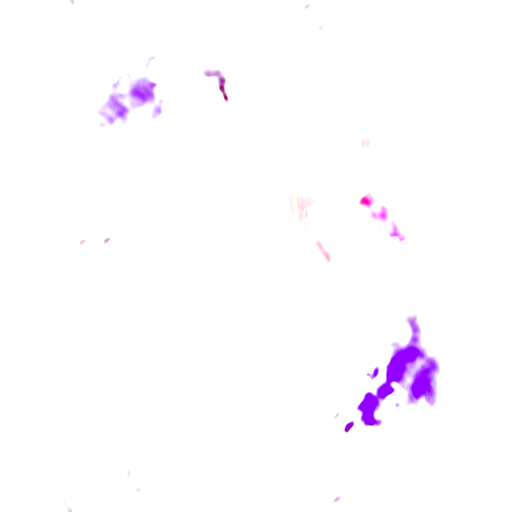
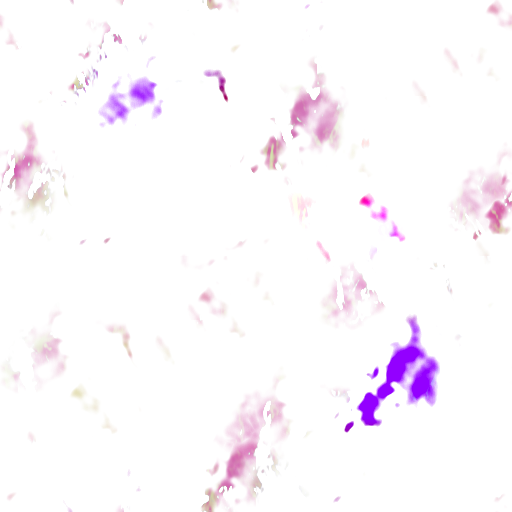
feat(clouds): extend Takram volumetric clouds, ECEF tangent anchor, NASA/Dereth weather maps, and cloud shadows across Ocean transit and Dericost

diff --git a/external/holtburger/apps/holtburger-web/scene3d/cloud_volume.js b/external/holtburger/apps/holtburger-web/scene3d/cloud_volume.js
@@ -58,6 +58,7 @@ import {
   DISPLAY_EXPOSURE_DEFAULT,
 } from './cloud_night.js';
 import { rustFlag } from './rust/scene_core.js';
+import { ecefAnchorForWorld } from './altitude_policy.js';
 // Lane F2 (2026-10-26) — `?hotTerrainShared` (DEFAULT OFF): the terrain cloud
 // shadow uniforms as one shared `{value}` each (scene3d/terrain_shared_uniforms.js).
 import {
@@ -456,8 +457,11 @@ export class CloudVolume {
     // see [[project_holtburger_clouds_f_done]]; we patch it in tick().
     this.effect.correctAltitude = false;
     this._bottomRadius = bottomRadius;
+    this._anchorY = 0;
+    this._anchorZ = 0;
+    this._camScratch = new THREE.Vector3();
     this.material = this.effect.cloudsPass.currentMaterial;
-    _hbInstallTrueCameraHeight(this.effect, bottomRadius);
+    _hbInstallTrueCameraHeight(this.effect, bottomRadius, this);
 
     // Temporal-resolve variance clipping, LOOSENED (2026-08-01, live 1070
     // A/B). takram's varianceGamma=2 clips the history buffer so hard
@@ -666,6 +670,40 @@ export class CloudVolume {
   }
 
   /**
+   * Synchronize the ECEF tangent-sphere origin with the active camera so
+   * extended coordinates (Ocean transit corridor AC Y=48.96..68.93 km and
+   * Dericost AC Y=68.93..117.89 km) do not drop below the spherical horizon
+   * or tilt rayIntersectsGround. On Dereth (AC Y <= 36 km), anchorY=0 and
+   * anchorZ=0 so the transform is 100% unchanged.
+   */
+  syncWorldECEF(camera) {
+    const cam = camera || this.effect?.camera;
+    if (!cam || !this.effect) return;
+    const p = typeof cam.getWorldPosition === 'function' ? cam.getWorldPosition(this._camScratch) : cam.position;
+    if (!p) return;
+    const { anchorY, anchorZ } = ecefAnchorForWorld(p.x, p.z);
+    if (anchorY === this._anchorY && anchorZ === this._anchorZ) return;
+    const dY = anchorY - this._anchorY;
+    const dZ = anchorZ - this._anchorZ;
+    this._anchorY = anchorY;
+    this._anchorZ = anchorZ;
+    this.effect.worldToECEFMatrix.makeTranslation(0, this._bottomRadius - anchorY, -anchorZ);
+    this.effect.ecefToWorldMatrix.copy(this.effect.worldToECEFMatrix).invert();
+    if (this.effect.shapeOffset && this.effect.shapeRepeat) {
+      this.effect.shapeOffset.y += dY * this.effect.shapeRepeat.y;
+      this.effect.shapeOffset.z += dZ * this.effect.shapeRepeat.z;
+    }
+    if (this.effect.shapeDetailOffset && this.effect.shapeDetailRepeat) {
+      this.effect.shapeDetailOffset.y += dY * this.effect.shapeDetailRepeat.y;
+      this.effect.shapeDetailOffset.z += dZ * this.effect.shapeDetailRepeat.z;
+    }
+    if (!this._driftWobble && this.effect.localWeatherOffset) {
+      this.effect.localWeatherOffset.x += (-dZ / 90000) * 0.35;
+      this.effect.localWeatherOffset.y += (-dZ / 90000) * 0.65;
+    }
+  }
+
+  /**
    * Apply an AC SkyState snapshot to the cloud material's uniforms.
    * No-op if `state` is null/undefined (matches sky_lighting.js's
    * tick semantics — when no session is up, leave defaults).
@@ -677,6 +715,7 @@ export class CloudVolume {
    */
   tick(state, _objStates) {
     if (!state) return;
+    this.syncWorldECEF(this.effect?.camera);
     const u = this.material.uniforms;
 
     // Sky-K.6 follow-on: clouds now sample the real Bruneton tables
@@ -1194,7 +1233,7 @@ export const _internals = {
 // and today's look exactly. The negative height also kept takram's haze term at zero (approximateHaze returns 0
 // for cameraHeight · modulation < 0); hazeDensityScale is held at 0 while the true height is in use, so the haze
 // stays what it has always been.
-function _hbInstallTrueCameraHeight(effect, bottomRadius) {
+function _hbInstallTrueCameraHeight(effect, bottomRadius, volume = null) {
   try {
     const v = (new URLSearchParams(globalThis.location?.search || "").get("cloudTrueHeight") || "").trim().toLowerCase();
     if (v === "off" || v === "0" || v === "false" || v === "no") return;
@@ -1208,13 +1247,17 @@ function _hbInstallTrueCameraHeight(effect, bottomRadius) {
   if (typeof window !== "undefined") window.__cloudTrueHeight = () => ({ ...stats });
   if (typeof window !== "undefined" && !window.__cloudHighBand) window.__cloudHighBand = () => ({ enabled: cloudHighBandEnabled(), ..._highBandStats });
   pass.copyCameraSettings = function hbTrueCameraHeight(camera) {
+    if (volume && typeof volume.syncWorldECEF === "function") volume.syncWorldECEF(camera);
     orig.call(this, camera);
     stats.frames += 1;
     try {
       const u = this.currentMaterial?.uniforms;
       if (!u || !u.cameraHeight || !camera || typeof camera.getWorldPosition !== "function") return;
       const p = camera.getWorldPosition(tmp);
-      const radial = Math.max(0, p.y + (p.x * p.x + p.z * p.z) / (2 * bottomRadius));
+      const { anchorY, anchorZ } = ecefAnchorForWorld(p.x, p.z);
+      const yEcef = p.y - anchorY;
+      const zEcef = p.z - anchorZ;
+      const radial = Math.max(0, yEcef + (p.x * p.x + zEcef * zEcef) / (2 * bottomRadius));
       const minH = Number.isFinite(u.minHeight?.value) ? u.minHeight.value : 750;
       if (radial >= minH - 150) {
         u.cameraHeight.value = radial;

diff --git a/external/holtburger/apps/holtburger-web/scene3d/world_terrain.js b/external/holtburger/apps/holtburger-web/scene3d/world_terrain.js
@@ -266,6 +266,10 @@ uniform float uAcAmbLevel;
 uniform float uSlopeShadingEnabled;
 uniform float uWaterGlint;          // 0..1
 uniform float uCanopy;              // 0..1 strength of the forest tint
+uniform float uCloudShadowEnabled;
+uniform sampler2DArray uCloudShadowMap;
+uniform mat4 uCloudShadowMatrix0;
+uniform float uCloudShadowStrength;
 #ifdef HB_WORLD_PRESENCE
 uniform highp sampler2D hbLbPresence;  // lb_presence.js: G = near ring drawn
 uniform vec2 hbLbPresenceOrigin;
@@ -374,7 +378,22 @@ void main() {
   albedo = terrainPaintLight(albedo, n, sunDir, vViewDepth, uPaintLight);
   float ndotl = 1.0;
   if (uSlopeShadingEnabled > 0.5 && !acGouraud) ndotl = terrainSunNdotl(n, sunDir);
-  vec3 lit = terrainApplyLight(albedo, ndotl, 1.0, 1.0);
+  float cloudShadow = 1.0;
+  if (uCloudShadowEnabled > 0.5) {
+    vec3 worldPos3 = vec3(vWorldXy.x, vWorldZ, -vWorldXy.y);
+    vec4 csClip = uCloudShadowMatrix0 * vec4(worldPos3, 1.0);
+    vec2 csUv = (csClip.xy / csClip.w) * 0.5 + 0.5;
+    vec2 csEdge = smoothstep(vec2(0.0), vec2(0.08), csUv)
+                * smoothstep(vec2(0.0), vec2(0.08), vec2(1.0) - csUv);
+    float csInBounds = csEdge.x * csEdge.y;
+    if (csInBounds > 0.001) {
+      vec4 bsm = texture(uCloudShadowMap, vec3(csUv, 0.0));
+      float opticalDepth = bsm.b + bsm.a;
+      float shadowTrans = max(exp(-opticalDepth * uCloudShadowStrength), 0.25);
+      cloudShadow = mix(1.0, shadowTrans, csInBounds);
+    }
+  }
+  vec3 lit = terrainApplyLight(albedo, ndotl, cloudShadow, 1.0);
   // water seen from the air: Fresnel (little reflection looking straight down, more toward the horizon), a sky
   // sheen from the fog colour (the horizon radiance) and a tight sun glint that is strongest at grazing angles
   if (water > 0.0 && uWaterGlint > 0.0) {
@@ -524,6 +543,10 @@ function _makeMaterial(scene3d, data) {
     ? scene3d.terrainMaterials.find((m) => m && m.uniforms && m.uniforms.uAtlas && m.uniforms.uBaseTexTiling)
     : null;
   const tiling = src?.uniforms?.uBaseTexTiling?.value ?? new Array(33).fill(1);
+  const dummyShadowArr = new THREE.DataArrayTexture(new Uint8Array(4), 1, 1, 1);
+  dummyShadowArr.format = THREE.RGBAFormat;
+  dummyShadowArr.type = THREE.UnsignedByteType;
+  dummyShadowArr.needsUpdate = true;
   const mat = new THREE.ShaderMaterial(withLogDepth({
     uniforms: {
       uHeightIdx: { value: hTex },
@@ -547,6 +570,10 @@ function _makeMaterial(scene3d, data) {
       uSlopeShadingEnabled: { value: 1.0 },
       uWaterGlint: { value: 1.0 },
       uCanopy: { value: 1.0 },
+      uCloudShadowEnabled: { value: 0.0 },
+      uCloudShadowMap: { value: dummyShadowArr },
+      uCloudShadowMatrix0: { value: new THREE.Matrix4() },
+      uCloudShadowStrength: { value: 2.0 },
       uWorldDepthBias: { value: 2.5e-6 },
       fogColor: { value: new THREE.Color(0xc3c8dc) },
       fogNear: { value: 150 },
@@ -606,6 +633,20 @@ export function setWorldTierWanted(scene3d, wanted) {
 
 /** Copy the live lighting uniforms from a near-ring terrain material (the far ring does the same). */
 function _copyLighting(scene3d, u) {
+  const vol = scene3d?.cloudOverlay?.volume;
+  const cp = vol?.effect?.cloudsPass;
+  const shadowTex = cp?.shadowBuffer;
+  const shadowMats = vol?.material?.uniforms?.shadowMatrices?.value;
+  if (shadowTex && shadowMats && shadowMats[0] && !scene3d?.__cloudShadowDisabled) {
+    u.uCloudShadowEnabled.value = 1.0;
+    u.uCloudShadowMap.value = shadowTex;
+    u.uCloudShadowMatrix0.value.copy(shadowMats[0]);
+    if (Number.isFinite(scene3d.__cloudShadowStrength)) {
+      u.uCloudShadowStrength.value = scene3d.__cloudShadowStrength;
+    }
+  } else if (scene3d?.__cloudShadowDisabled) {
+    u.uCloudShadowEnabled.value = 0.0;
+  }
   const src = Array.isArray(scene3d?.terrainMaterials)
     ? scene3d.terrainMaterials.find((m) => m && m.uniforms && m.uniforms.uSunDir)
     : null;

diff --git a/external/holtburger/apps/holtburger-web/scene3d/altitude_policy.js b/external/holtburger/apps/holtburger-web/scene3d/altitude_policy.js
@@ -130,9 +130,34 @@ export function hazeScale(agl) {
   const t = Math.min(1, Math.max(0, (agl - 300) / 1200));
   return 1 - t * t * (3 - 2 * t);
 }
-/** takram's radial altitude of a three-world point (the ECEF pole sits under AC (0, 0)). */
+function _ecefSmoothstep(a, b, x) {
+  const t = Math.min(1, Math.max(0, (x - a) / (b - a)));
+  return t * t * (3 - 2 * t);
+}
+
+/**
+ * ECEF tangent-sphere anchor for extended world coordinates beyond Dereth (Ocean transit corridor & Dericost).
+ * For Dereth south/central (z3 >= -36000, i.e. AC Y <= 36000, including Holtburg), returns {anchorY: 0, anchorZ: 0}
+ * so Dereth's spherical frame is 100% byte-identical. North of AC Y = 36 km, anchorZ tracks z3 + 36000 so
+ * z_ecef stays at -36000 m (preventing the d^2/2R spherical drop-off and horizon normal tilt at 50-118 km),
+ * and anchorY lifts smoothly onto Dericost's plateau datum so the 750 m cumulus deck sits 350-550 m AGL across Dericost.
+ */
+export function ecefAnchorForWorld(x3, z3) {
+  if (!(z3 < -36000)) return { anchorY: 0, anchorZ: 0 };
+  const acY = -z3;
+  const anchorZ = z3 + 36000;
+  const tContinent = _ecefSmoothstep(64000, 74000, acY);
+  const tNorth = _ecefSmoothstep(75000, 106000, acY);
+  const anchorY = tContinent * (140 + 180 * tNorth);
+  return { anchorY, anchorZ };
+}
+
+/** takram's radial altitude of a three-world point (anchored for extended Ocean + Dericost coordinates). */
 export function radialAltitude(x3, y3, z3) {
-  return y3 + (x3 * x3 + z3 * z3) / (2 * EARTH_R);
+  const { anchorY, anchorZ } = ecefAnchorForWorld(x3, z3);
+  const yEcef = y3 - anchorY;
+  const zEcef = z3 - anchorZ;
+  return yEcef + (x3 * x3 + zEcef * zEcef) / (2 * EARTH_R);
 }
 
 // ---------------------------------------------------------------------------

diff --git a/external/holtburger/apps/holtburger-web/scene3d/cloud_overlay.js b/external/holtburger/apps/holtburger-web/scene3d/cloud_overlay.js
@@ -42,6 +42,7 @@ import * as THREE from 'three';
 import { CloudVolume } from './cloud_volume.js';
 import { applyCloudLook, cloudLayersMatchLook } from './cloud_storm_look.js';
 import { updateFromPosition as wxUpdateFromPosition } from './weather_state.js';
+import { ecefAnchorForWorld } from './altitude_policy.js';
 import {
   CloudShape, CloudShapeDetail, LocalWeather, Turbulence,
 } from '@takram/three-clouds';
@@ -865,6 +866,7 @@ export class CloudOverlay {
     // (exposure × AgX); hand the volume the live exposure (`?exposure`,
     // `__setExposure`). A number compare per frame; re-solves only on change.
     this.volume?.setDisplayExposure?.(renderer.toneMappingExposure);
+    this.volume?.syncWorldECEF?.(activeCam ?? this.camera);
     if (this._mainPass) {
       // `?cloudsMainPass=on`: the main composer's fxPass runs the raymarch
       // (CloudsEffect.update) with the real scene depth; arm exactly one
@@ -1353,7 +1355,10 @@ function _hbCloudCameraHeight(cam, camWorldY) {
   const w = globalThis.__hbCloudRadialW;
   if (!(w > 0) || !cam?.position) return base;
   const x = cam.position.x, z = cam.position.z;
-  const radial = Math.max(0, camWorldY + (x * x + z * z) / (2 * 6360000));
+  const { anchorY, anchorZ } = ecefAnchorForWorld(x, z);
+  const yEcef = camWorldY - anchorY;
+  const zEcef = z - anchorZ;
+  const radial = Math.max(0, yEcef + (x * x + zEcef * zEcef) / (2 * 6360000));
   return base + (radial - base) * Math.min(1, w);
 }
 

diff --git a/external/holtburger/apps/holtburger-web/scene3d/atmosphere_sky.js b/external/holtburger/apps/holtburger-web/scene3d/atmosphere_sky.js
@@ -49,6 +49,7 @@ import {
 // Before the sky is populated (NaN / stale pkg) the legacy formula is used
 // unchanged.
 import { gameDateMsNow } from "./sky_game_date.js";
+import { ecefAnchorForWorld } from "./altitude_policy.js";
 
 /**
  * Synthesize a Date that advances at AC game-time pace from the launch
@@ -81,6 +82,7 @@ export class AtmosphereSky {
     const atm = atmosphere ?? AtmosphereParameters.DEFAULT;
     const tex = atmosphereRuntime.textures;
 
+    this._bottomRadius = atm.bottomRadius;
     this.skyScene = skyScene;
     this.skyDome = skyDome ?? null;
 
@@ -330,6 +332,22 @@ export class AtmosphereSky {
 
     this._lastState = state;
     this._tickCount += 1;
+  }
+
+  /**
+   * Keep the sky and star ECEF frame aligned with CloudVolume and AerialPerspective
+   * when flying north across the Ocean corridor and Dericost.
+   */
+  syncWorldECEF(x3, z3) {
+    const { anchorY, anchorZ } = ecefAnchorForWorld(x3, z3);
+    const y = (this._bottomRadius || 6360000) - anchorY;
+    const z = -anchorZ;
+    if (this.skyMaterial?.worldToECEFMatrix) {
+      this.skyMaterial.worldToECEFMatrix.makeTranslation(0, y, z);
+    }
+    if (this.starsMaterial?.worldToECEFMatrix) {
+      this.starsMaterial.worldToECEFMatrix.makeTranslation(0, y, z);
+    }
   }
 
   /**

diff --git a/external/holtburger/apps/holtburger-web/scene3d/atmosphere_pipeline.js b/external/holtburger/apps/holtburger-web/scene3d/atmosphere_pipeline.js
@@ -2408,6 +2408,15 @@ export function createAtmospherePipeline(renderer, scene, camera, opts) {
       // 2026-10-07 `?aerialSun` — AerialPerspective lights its inscatter with
       // the sky's sun (it was (0,0,0); see aerialSunEnabled). Two vec3 compares.
       if (aerialSunOn && atmosphereSky) syncAerialSun(aerialPerspective, atmosphereSky);
+      if (mainCamera?.position) {
+        const cx = mainCamera.position.x, cz = mainCamera.position.z;
+        if (atmosphereSky?.syncWorldECEF) {
+          atmosphereSky.syncWorldECEF(cx, cz);
+        }
+        if (aerialPerspective?.worldToECEFMatrix && atmosphereSky?.skyMaterial?.worldToECEFMatrix) {
+          aerialPerspective.worldToECEFMatrix.copy(atmosphereSky.skyMaterial.worldToECEFMatrix);
+        }
+      }
       const isIndoor = !!skyDome?._lastIsIndoor;
       // cells-portals-2 `?indoorLandscapeGate` (default ON): this armed indoor
       // frame draws no landscape — retail's sky (GameSky::Draw) is inside
